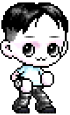
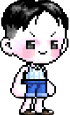
Game 3

diff --git a/main.js b/main.js
@@ -36,7 +36,7 @@ document.addEventListener("keydown", handleKeyDown); // 키 다운 이벤트 리
 document.addEventListener("keyup", handleKeyUp); // 키 업 이벤트 리스너 등록
 
 let imgBasic = new Image(); // 기본 캐릭터 이미지 객체 생성
-imgBasic.src = "img/basic.png"; // 이미지 파일 경로 설정
+imgBasic.src = "./img/basic.png"; // 이미지 파일 경로 설정
 
 imgBasic.onload = () => {
   character.draw(); // 이미지가 로드되면 캐릭터를 그림
@@ -44,10 +44,10 @@ imgBasic.onload = () => {
 
 // 캐릭터 객체
 let character = {
-  x: canvas.width / 2 - 70, // 캐릭터의 초기 x 좌표
-  y: canvas.height - 115, // 캐릭터의 초기 y 좌표
-  width: 70, // 캐릭터의 너비
-  height: 115, // 캐릭터의 높이
+  x: canvas.width / 2 - 60, // 캐릭터의 초기 x 좌표
+  y: canvas.height - 155, // 캐릭터의 초기 y 좌표
+  width: 60, // 캐릭터의 너비
+  height: 99, // 캐릭터의 높이
   img: imgBasic, // 캐릭터 이미지
 
   draw() {
@@ -71,7 +71,7 @@ imgObstacle3.src = "./img/1.png";
 obstacleImages.push(imgObstacle3);
 
 const imgObstacle4 = new Image();
-imgObstacle4.src = "./img/1.png";
+imgObstacle4.src = "./img/gift.png";
 obstacleImages.push(imgObstacle4);
 
 // 장애물 클래스
@@ -100,9 +100,9 @@ const obstacles = [];
 
 // 장애물 종류 및 초기화 함수
 const obstacleTypes = [
-  { width: 50, height: 46, speed: 3, image: obstacleImages[0], special: false },
-  { width: 51, height: 39, speed: 4, image: obstacleImages[1], special: false },
-  { width: 50, height: 30, speed: 5, image: obstacleImages[2], special: false },
+  { width: 100, height: 98, speed: 1, image: obstacleImages[0], special: false },
+  { width: 50, height: 49, speed: 4, image: obstacleImages[1], special: false },
+  { width: 35, height: 34, speed: 5, image: obstacleImages[2], special: false },
   { width: 30, height: 30, speed: 7, image: obstacleImages[3], special: true },
 ];
 

diff --git a/css/main.css b/css/main.css
@@ -1,34 +1,35 @@
 body {
-    margin: 0;
-    padding: 0;
-    background-color: black;
-    display: flex;
-    justify-content: center;
-    align-items: center;
-    height: 100vh;
-  }
-  
-  div {
-    width: 1000px;
-    height: 600px;
-    margin: auto;
-    position: relative;
-  }
-  
-  canvas {
-    width: 1000px;
-    height: 600px;
-    background-color: #fff;
-  }
-  
-  #playBtn {
-    position: absolute;
-    top: 0;
-    right: 0;
-    padding: 10px 20px;
-    background-color: black;
-    color: #fff;
-    border: none;
-    cursor: pointer;
-    font-size: 16px;
-  }
+  margin: 0;
+  padding: 0;
+  background-color: black;
+  display: flex;
+  justify-content: center;
+  align-items: center;
+  height: 100vh;
+}
+
+div {
+  width: 1000px;
+  height: 600px;
+  margin: auto;
+  position: relative;
+}
+
+canvas {
+  width: 1000px;
+  height: 600px;
+  background-image: url("../img/bg.png");
+  background-size: cover;
+}
+
+#playBtn {
+  position: absolute;
+  top: 0;
+  right: 0;
+  padding: 10px 20px;
+  background-color: black;
+  color: #fff;
+  border: none;
+  cursor: pointer;
+  font-size: 16px;
+}
